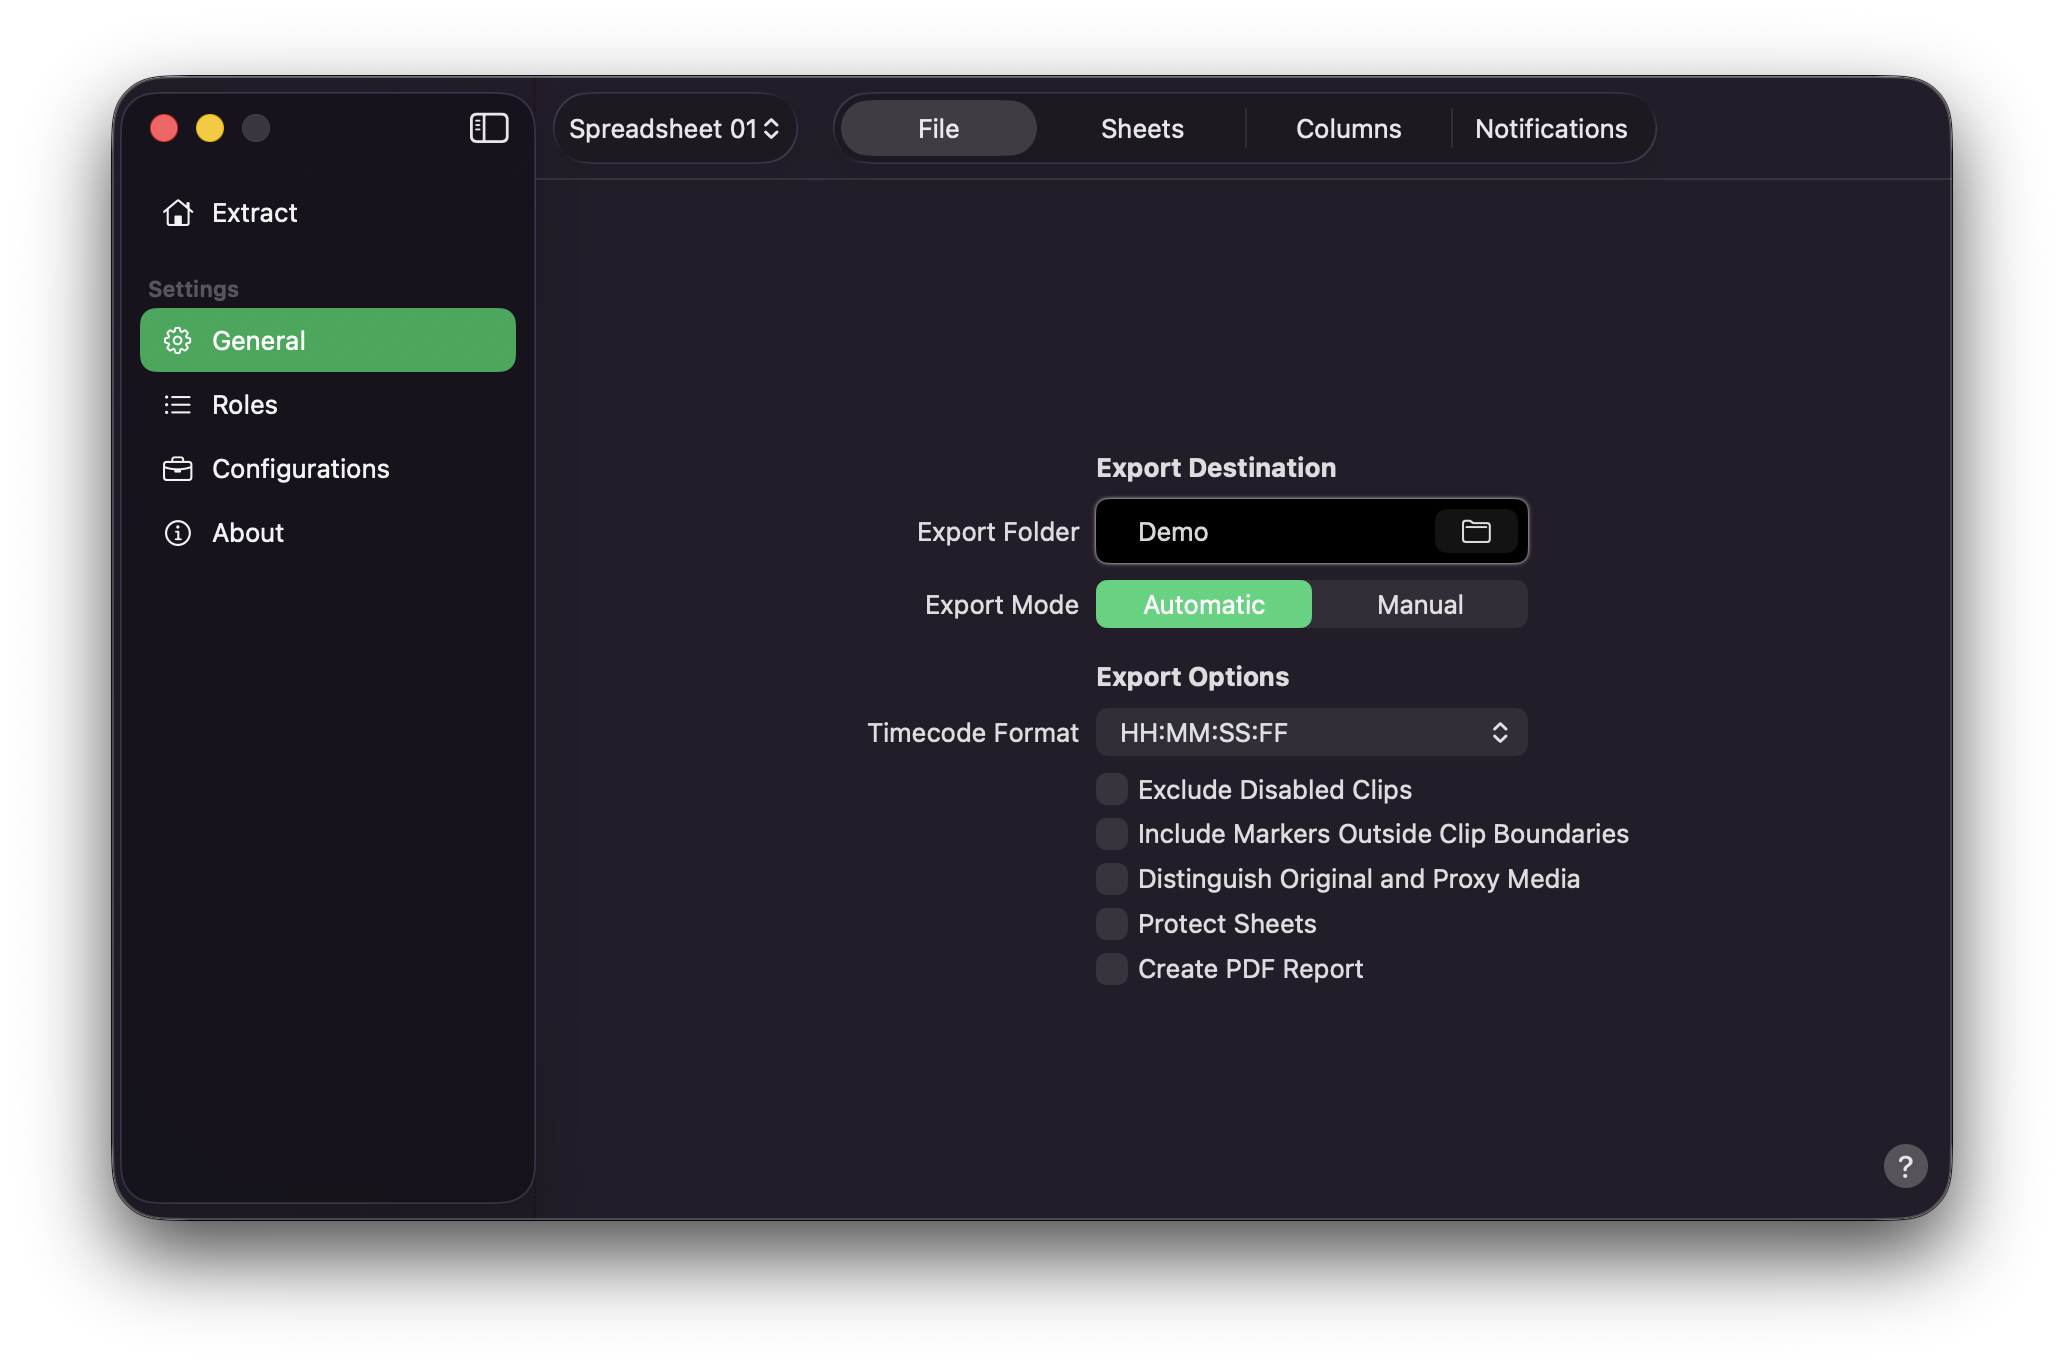
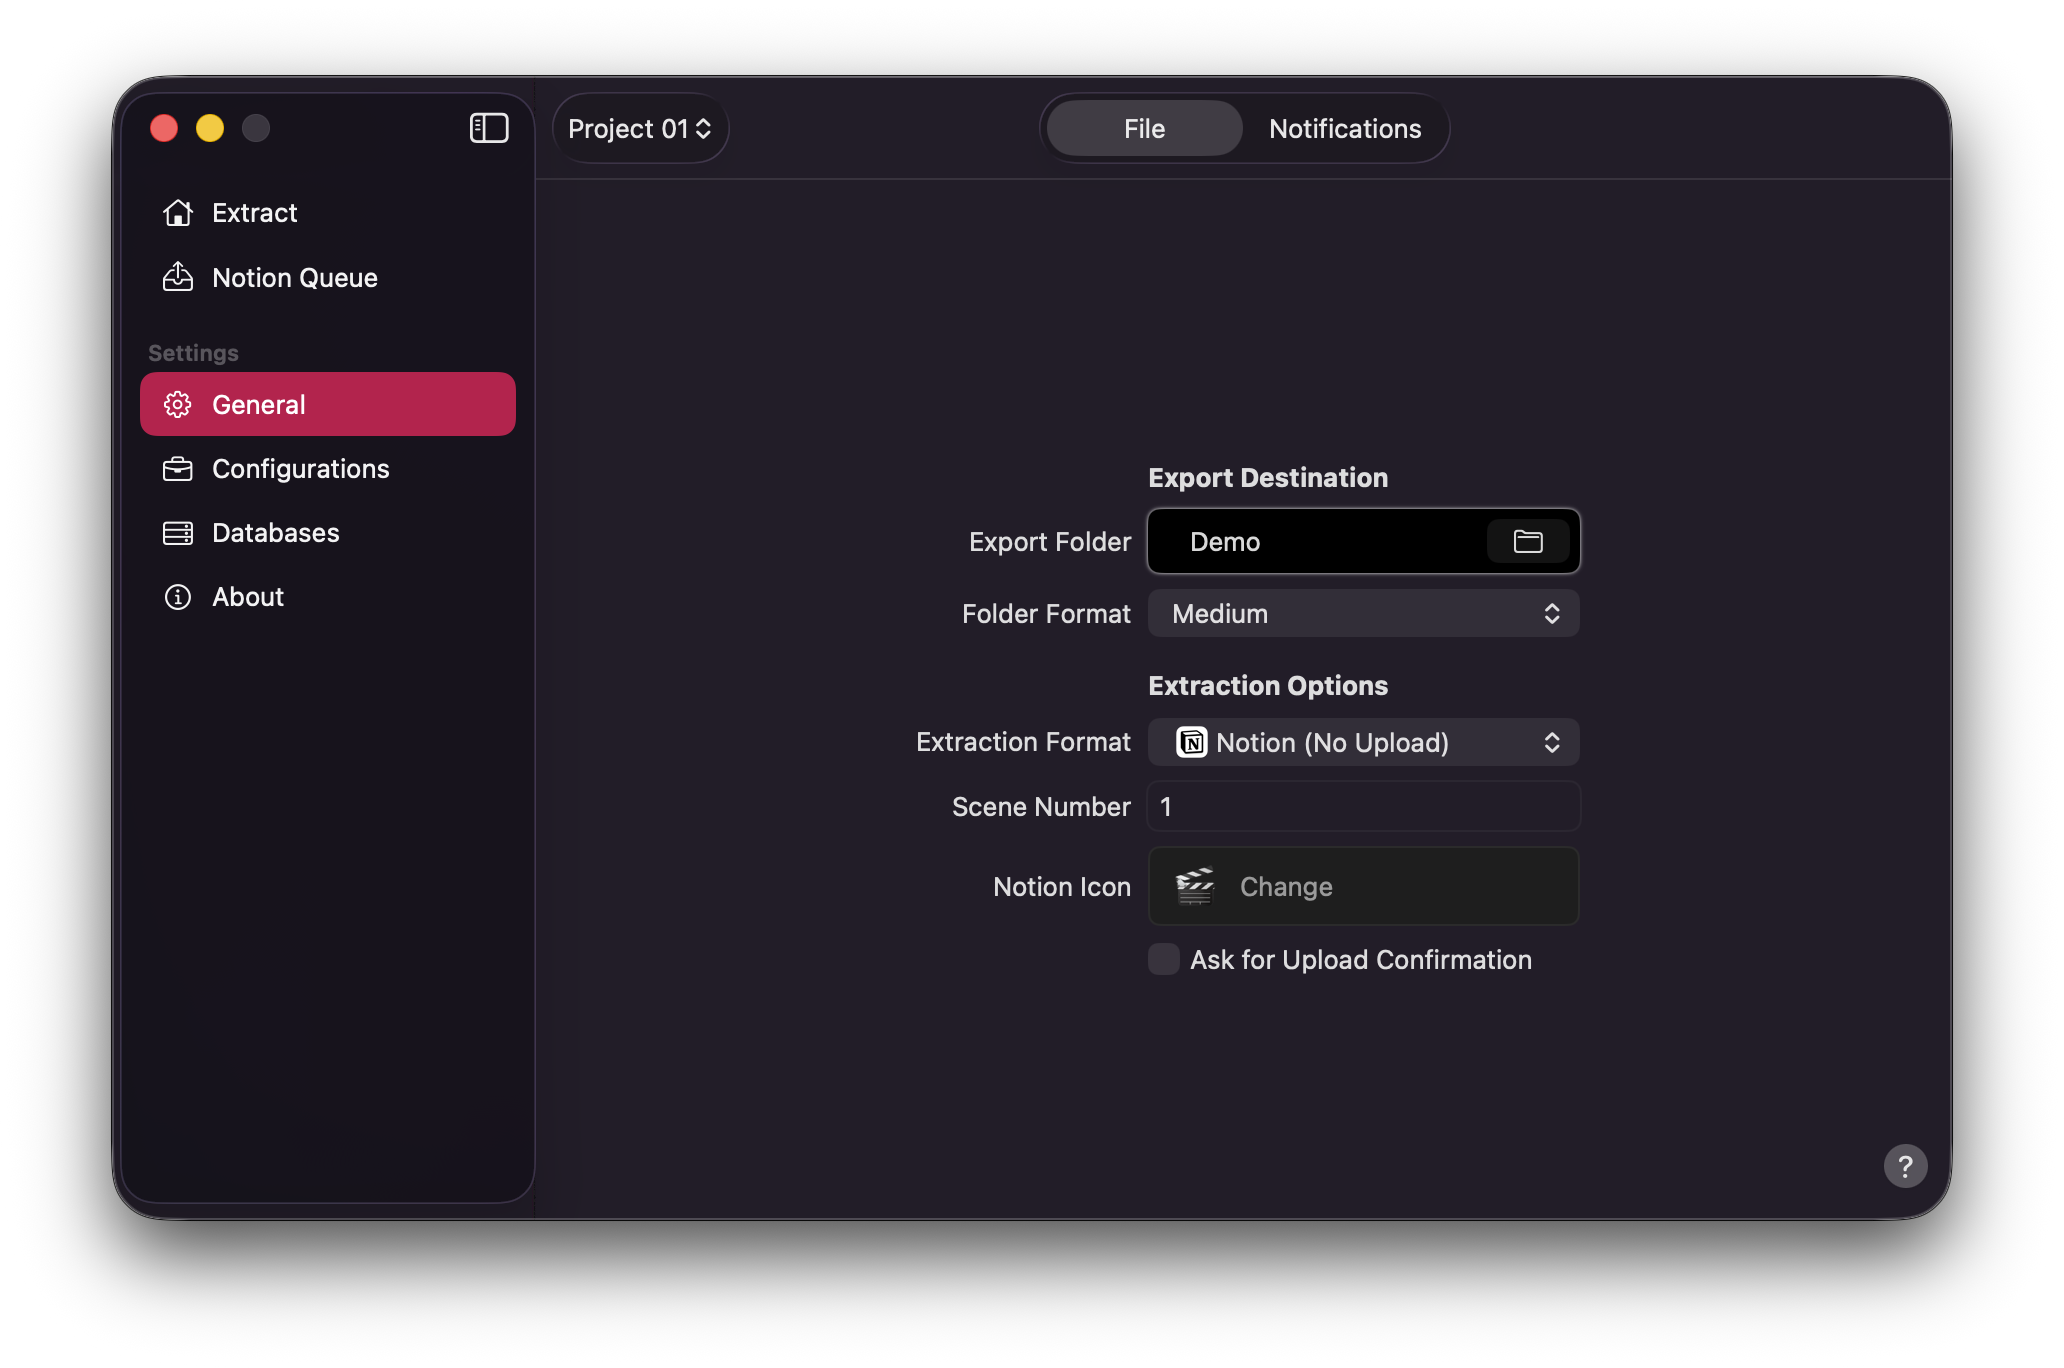
Update

diff --git a/docs/User Guide/general.md b/docs/User Guide/general.md
@@ -7,206 +7,106 @@ order: -4
 
 ![General Settings](/assets/sd-general-settings.png)
 
+General Settings has two tabs: **File** and **Notifications**.
+
 ## Export Destination
 
-### Destination
+### Export Folder
 
-You can select your desired location by clicking on the Folder Icon. Upon right-clicking folder icon, **Production Data** will show the `Full Path` associated with said folder.
+You can select your desired location by clicking on the Folder Icon. Upon right-clicking the folder icon, **Shot Data** will show the `Full Path` associated with said folder. You may also choose `Clear Path` to remove the selection.
 
-If no folder has been chosen, **Production Data** will display `Please select!` If the saved folder can no longer be found, `Missing Folder!` will be shown.
+If no folder has been chosen, **Shot Data** will display `Please select!`. If the saved folder can no longer be found, `Missing Folder!` will be shown.
 
-### Export Folder Naming
-
-Each export is saved within a subfolder inside your chosen export destination. In order to mitigate conflicts and potential overwrites of previously generated reports, **Production Data** incorporates the project name and the current date and time within the folder nomenclature. The timestamp uses the `yyyy-MM-dd-HH-mm-ss` format. Consequently, each export yields a distinct and uniquely identified result.
+`Export Folder` also appears in the black footer on [Extract](/user-guide/extract).
 
 !!!info Info
-`My Project-2026-07-13-10-30-45`
+The export folder is remembered with a security-scoped bookmark. **Shot Data** does not store a plain file path as the source of truth. If the volume is disconnected later, see `Missing Folder!` under [Troubleshooting](/troubleshooting).
 !!!
 
-### Export Mode
+### Folder Format
 
-Select your desired Export Mode.
+Select your desired Folder Format.
 
-- **Automatic** [!badge text="Default"]
-- **Manual**
+- **Short**
+- **Medium** [!badge text="Default"]
+- **Long**
 
-In `Automatic` mode, **Production Data** begins the export as soon as a project is received. In `Manual` mode, the project is queued on [Extract](/extract) and you confirm the export with `Start Export` when you are ready.
-
-In `Automatic` mode, dropping a project on the [Roles](/roles) tab will switch to [Extract](/extract) before the export runs.
-
-The current mode is shown as a badge on [Extract](/extract). You can also switch modes from the File menu (`Switch to Manual Export` / `Switch to Automatic Export`) or by pressing `⌘` `⇧` `E` on your keyboard.
+Each extraction is saved within a uniquely named subfolder inside your chosen export destination. The folder name includes timeline details and a timestamp so earlier shot lists are not overwritten.
 
 !!!info Info
-**Production Data** processes one FCPXML project per action. Whether you drag and drop onto [Extract](/extract) or [Roles](/roles), choose a file with `Choose File`, use `File → Open…`, or open a project from Finder or the Dock, only a single project is accepted. If multiple files are offered at once, **Production Data** uses the first item only.
+`Folder Format` lives under General → File only. It is not shown on the Extract footer.
 !!!
 
-## Export Options
+## Extraction Options
 
-### Timecode Format
+### Extraction Format
 
-Select your desired Timecode Format.
+Select your desired Extraction Format.
 
-- **HH:MM:SS:FF** [!badge text="Default"]
-- **Frames**
-- **Feet+Frames**
-- **HH:MM:SS**
+- **Notion (No Upload)** [!badge text="Default"] — writes a local Notion JSON manifest and PNGs
+- **CSV** — writes a local CSV manifest and PNGs
+- **Database Profiles** — extract and upload to a [Notion database profile](/user-guide/databases) you have created
 
-This setting controls how timeline time values appear in the Excel workbook.
-
-### Exclude Disabled Clips
-
-Checking `Exclude Disabled Clips` will prevent **Production Data** from including disabled clips in the report.
-
-By [!badge text="Default"], disabled clips are included in the spreadsheet.
-
-### Include Markers Outside Clip Boundaries
-
-Checking `Include Markers Outside Clip Boundaries` includes markers whose start falls outside the host clip’s media range — markers Final Cut Pro hides from the timeline and Tags list — on the `Markers` sheet.
-
-When enabled, the Markers sheet also gains a `Hidden` column: `✓` for markers outside clip boundaries and `✗` for markers inside. By [!badge text="Default"], those out-of-bounds markers are omitted and the `Hidden` column is not shown.
-
-Enable this option when you need a complete marker inventory, including markers that are not visible in Final Cut Pro’s Tags. It only takes effect when `Markers` is enabled under [Sheets](#sheets).
+`Extraction Format` also appears in the black footer on [Extract](/user-guide/extract).
 
 !!!info Info
-The `Hidden` column is not listed under [Columns](#columns). It appears only when this option is on and cannot be excluded like other workbook columns.
+CSV extracts are local only and do not appear in [Notion Queue](/user-guide/notion-queue). Notion extracts write an `extract_info.json` sidecar so you can upload later from the Queue.
 !!!
 
-### Distinguish Original and Proxy Media
+### Scene Number
 
-Checking `Distinguish Original and Proxy Media` separates missing original and proxy media into distinct columns on the `Media Summary` sheet, rather than combining them into a single Missing Media column.
+Enter the Scene Number used when naming shots. Shot IDs follow the form `{Scene Number}-{NNN}` — for example `1-001` or `50A-001`.
 
-By [!badge text="Default"], `Media Summary` uses one Missing Media column. Enable this option when you need to tell original and proxy media apart. It only takes effect when `Media Summary` is enabled under [Sheets](#sheets).
-
-### Protect Sheets
-
-Checking `Protect Sheets` applies worksheet protection to every sheet in the Excel workbook (`.xlsx`), including the cover sheet and all content sheets. This discourages accidental edits after export.
-
-By [!badge text="Default"], sheets are not protected. Enable this option when you want a light edit lock on the spreadsheet. Excel still opens the file without a password, and anyone can turn protection off in Excel. This is an edit lock, not file-open encryption.
-
-`Protect Sheets` applies to the Excel workbook only. PDF export is unaffected — use Preview’s Encrypt (or another PDF tool) if you need to password-protect a PDF.
-
-### Create PDF Report
-
-Checking `Create PDF Report` instructs **Production Data** to write a PDF report (`.pdf`) alongside the Excel workbook (`.xlsx`) for each export. Both files are saved in the same timestamped subfolder within your `Export Destination`.
-
-By [!badge text="Default"], only the Excel workbook is exported. Enable this option when you need a shareable PDF for review or distribution. When enabled, **Production Data** exports `MyTimeline.xlsx` and `MyTimeline.pdf` in the same folder (for example, `My Project-2026-07-13-10-30-45/MyTimeline.xlsx` and `MyTimeline.pdf`).
-
-The PDF report is generated from the same built report as the Excel export. The columns, sheets, role inclusions, timecode format, and clip filtering reflected in the PDF are determined entirely by the [Active Configuration](configurations/#make-active-configuration) selected in the toolbar or [Configurations](/configurations) panel.
-
-**Production Data** does not maintain separate PDF-specific sheet, column, or role settings. Any change to `Sheets`, `Columns`, or `Roles` in the active Configuration applies equally to both the `.xlsx` and `.pdf` outputs for that export. This is intentional.
-
-To produce a different PDF layout or column set, switch to or update the appropriate [Configurations](/configurations) before exporting.
-
-!!!info Experimental
-PDF export is experimental and optimised for A4 landscape. Tables paginate across pages and cell text may truncate. The Row column is included by default for traceability; exclude it the same way as in Excel. Matching sheet pages share a tint. For the complete dataset and column options, use the accompanying Excel (.xlsx) report.
-!!!
-
-<hr>
-
-## Sheets
-
-![](/assets/sd-general-settings-sheets.png)
-
-By [!badge text="Default"], **Production Data** includes `Selected Roles Inventory` in the Excel report. This tab permits you to choose which worksheets are included in each export.
-
-### Full Report
-
-Turning `Full Report` on enables every optional sheet below. Turning it off allows you to choose sheets individually.
-
-### Report Sheets
-
-- **Selected Roles Inventory** [!badge text="Default"]
-- **Markers**
-- **Keywords**
-- **Titles & Generators**
-- **Transitions**
-- **Non-Standard Effects & Templates**
-- **Video & Audio Effects**
-- **Speed Change Effects**
-- **Summary**
-- **Media Summary**
-
-A summary of enabled sheets is also shown in the status bar on [Extract](/extract).
-
-Checking `Non-Standard Effects & Templates` includes non-Apple effects and Motion templates from the timeline on their own sheet. Missing effect or template paths are flagged as `MISSING`. By [!badge text="Default"], this sheet is not included.
+By [!badge text="Default"], Scene Number is `1`.
 
 !!!info Info
-In the Excel workbook, the worksheet tab may appear as `Non-Std Effects & Templates` because Excel limits sheet names to 31 characters. The Sheets toggle and Extract status bar use the full name.
+Scene Number must not be empty. Alphanumeric values are allowed. You can also edit Scene Number from the ruby badge on [Extract](/user-guide/extract).
 !!!
 
-!!!info Info
-`Media Summary` lists media files referenced in the project. **Production Data** does not read or copy your media files for this sheet. When the sheet is enabled and no referenced media is missing, Excel and PDF keep the headers and show a `No Missing Media` status row.
-!!!
+### Notion Icon
 
-!!!info Info
-When an enabled sheet has no matching items in the project, Excel and PDF keep the sheet headers and show a single status row — for example `No Markers Found`, `No Keywords Found`, `No Titles & Generators Found`, `No Transitions Found`, `No Effects Found`, `No Speed Change Effects Found`, `No Non-Std Effects Found`, or `No Roles Found`. Individual per-role inventory tabs may still be omitted when empty. `Summary` keeps its project-metrics layout.
-!!!
+![Notification Settings](/assets/sd-general-settings-emoji-picker.png)
 
-### Label
+Choose the emoji written into the Notion manifest as `Icon Image` (used as the Notion page icon on upload).
 
-![](/assets/sd-general-settings-sheets-copyright.png)
+By [!badge text="Default"], the icon is `🎬`.
 
-The `Label` section adds an optional copyright line to the report cover branding.
+### Ask for Upload Confirmation
 
-Checking `Copyright` includes your text on the Excel cover sheet and, when [Create PDF Report](#create-pdf-report) is enabled, on the PDF cover and centred in the PDF page footer. By [!badge text="Default"], no copyright label is exported.
+Checking `Ask for Upload Confirmation` pauses extract-and-upload after planning, so you can confirm before Notion is written.
 
-Press `Edit Copyright` at the bottom of the Sheets tab to enter or change the text. Enter the string as typed — year, `©`, or any wording you prefer. **Production Data** does not insert a copyright symbol or year for you. When text is set, the current value is shown beside the button.
-
-If `Copyright` is turned on while the text is empty, the editor opens so you can fill it in. Turning `Copyright` off keeps your saved text for later use but omits the label from the next export.
-
-!!!info Info
-Whitespace-only text is treated as empty and is not written to the report.
-!!!
-
-<hr>
-
-## Columns
-
-![](/assets/sd-general-settings-columns.png)
-
-The `Columns` tab controls which columns appear on role inventory sheets in the Excel workbook. Use the table to turn individual columns on or off. Disabled columns are omitted from the export.
-
-!!!info Info
-Role inventory sheets also include a `Total` footer that sums `Clip Duration` under the `Timeline Out` column. If `Timeline Out` or `Clip Duration` is excluded, the Total footer is omitted entirely (Excel and PDF).
-!!!
-
-### Enable All
-
-Pressing `Enable All` will check all column selections.
-
-### Disable All
-
-Pressing `Disable All` will uncheck all column selections.
+By [!badge text="Default"], confirmation is off. This option only applies when Extraction Format is a database profile that uploads.
 
 <hr>
 
 ## Notification
 
-![](/assets/sd-general-settings-notifications.png)
+![Notification Settings](/assets/sd-general-settings-notifications.png)
 
 ### Notification Frequency
 
-**Production Data** seamlessly integrates with the native macOS Notifications framework, delivering timely alerts upon the successful completion of tasks.
+**Shot Data** integrates with the native macOS Notifications framework, delivering alerts while extraction and upload tasks run.
 
 Select your desired Notification Frequency.
+
 - **Never**
 - **When Export Finishes** [!badge text="Default"]
 - **Each Report Step**
 
 !!!info Info
-`Each Report Step` notifies you as each enabled report sheet is built and when the spreadsheet is saved, followed by a notification when the export finishes. The number of notifications depends on which sheets you have enabled under `Sheets`.
+`When Export Finishes` notifies you when the run completes. `Each Report Step` also sends intermediate progress notifications during extraction and upload.
 !!!
 
 ### Show Progress on Dock Icon
 
-By [!badge text="Default"] Progress Bar is shown on **Production Data**'s dock icon.
+By [!badge text="Default"], a progress indicator is shown on **Shot Data**'s Dock icon while work is in progress.
 
 ### Open macOS Notification Settings
 
-![](/assets/sd-general-settings-notifications_macOS.png)
+![macOS Notification Settings](/assets/sd-general-settings-notifications_macOS.png)
 
-Select the `Open macOS Notification Settings` link to open macOS Notification Settings. Navigate to **Production Data** to manage notification settings.
+Select the `Open macOS Notification Settings` link to open macOS Notification Settings. Navigate to **Shot Data** to manage notification settings.
 
 !!!info Info
-**Production Data** will only show up in the macOS Notification Settings solely after the initial prompting attempt. If **Production Data** is the focused application, notifications won’t make a sound or appear on the screen.
+**Shot Data** will only appear in macOS Notification Settings after the initial authorisation prompt. If **Shot Data** is the focused application, banners may be quieter or less obvious — check Notification Centre.
 !!!

diff --git a/docs/User Guide/notion-queue.md b/docs/User Guide/notion-queue.md
@@ -5,7 +5,7 @@ order: -3
 ---
 # Notion Queue
 
-![Queue Window](/assets/sd-queue.png)
+![Notion Queue Window](/assets/sd-notion-queue.png)
 
 **Marker Data**'s Queue feature presents a sophisticated solution, empowering users to efficiently manage multiple Data Sets destined for various database and platform endpoints; [Notion](https://www.notion.com/) and/or [Airtable](https://www.airtable.com/). This functionality enables consecutive queuing of Data Sets for seamless uploading, thereby streamlining the process of data dissemination. Notably, users have the flexibility to customise Database Profiles for each individual Data Set, tailoring the upload parameters to suit specific destination requirements. Such nuanced control fosters a refined approach to data management, allowing for optimal organisation and integration within diverse database ecosystems. This level of customisation underscores **Marker Data**’s commitment to facilitating precise and tailored data handling solutions, empowering users to leverage their data effectively across disparate platforms.
 

diff --git a/docs/User Guide/extract.md b/docs/User Guide/extract.md
@@ -11,6 +11,18 @@ order: -2
 
 Following the creation of your [Configuration](/user-guide/configurations), choose an `Export Folder` and an `Extraction Format` in the footer, then provide a timeline to Extract. Set `Scene Number` and `Folder Format` under [General → File](/user-guide/general).
 
+## Scene Number
+
+![Extract Window](/assets/sd-main-02.png)
+
+A ruby `Scene` badge sits in the top-right corner of Extract. Click it to open a quick Scene Number editor without leaving the panel.
+
+The value is the same `Scene Number` stored under [General → File](/user-guide/general). Shot IDs use the form `{Scene Number}-{NNN}` — for example `1-001` or `50A-001`.
+
+!!!info Info
+Scene Number must not be empty before extraction begins. Alphanumeric values are allowed.
+!!!
+
 ## Drag and Drop
 
 ![Extract Window](/assets/sd-main-01.gif)
